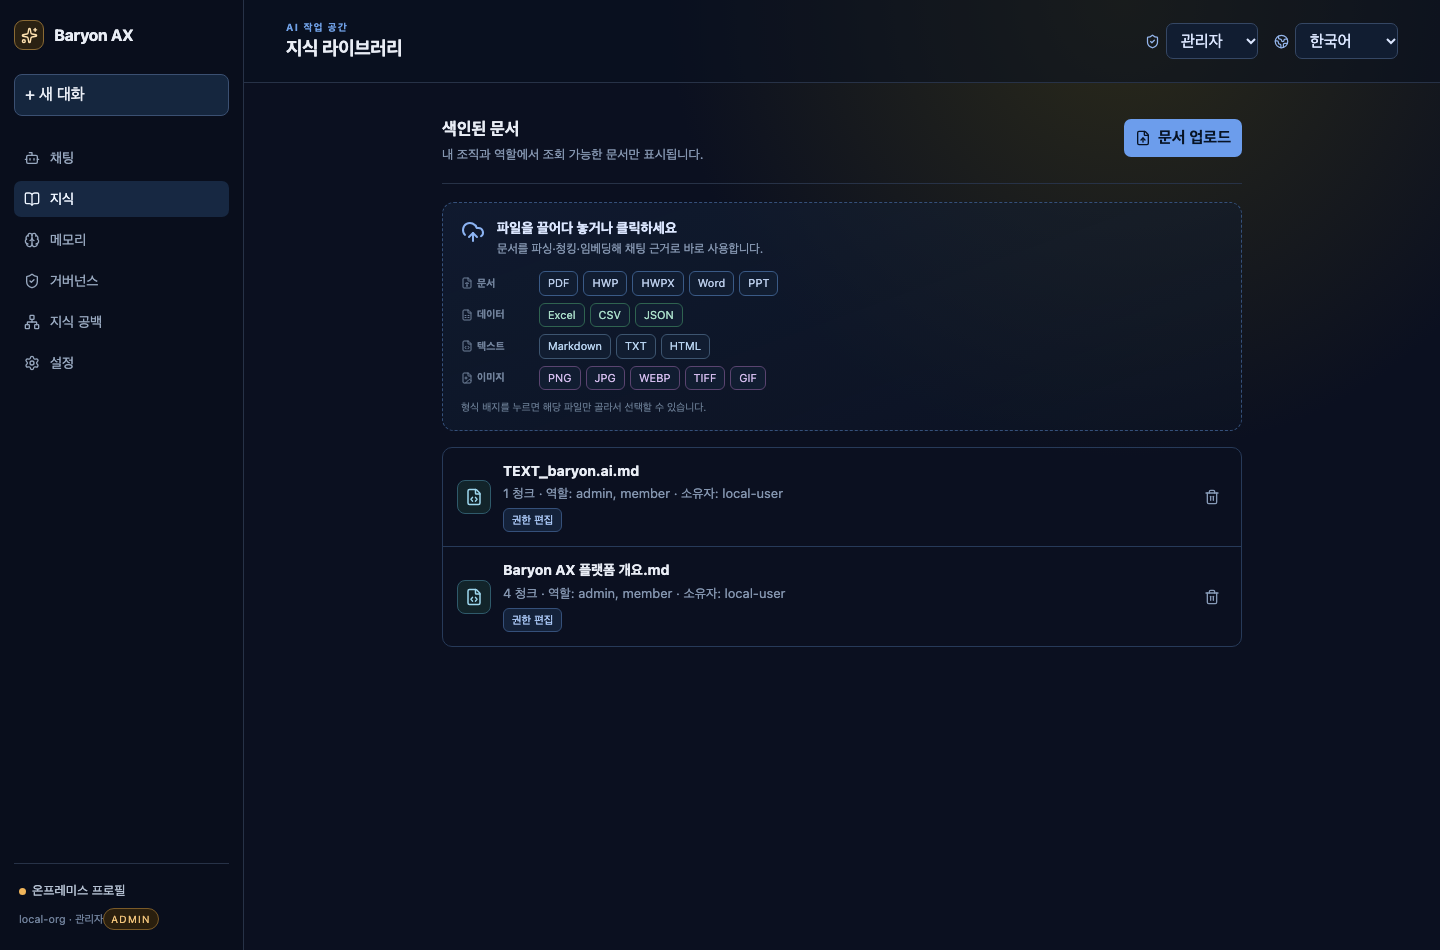
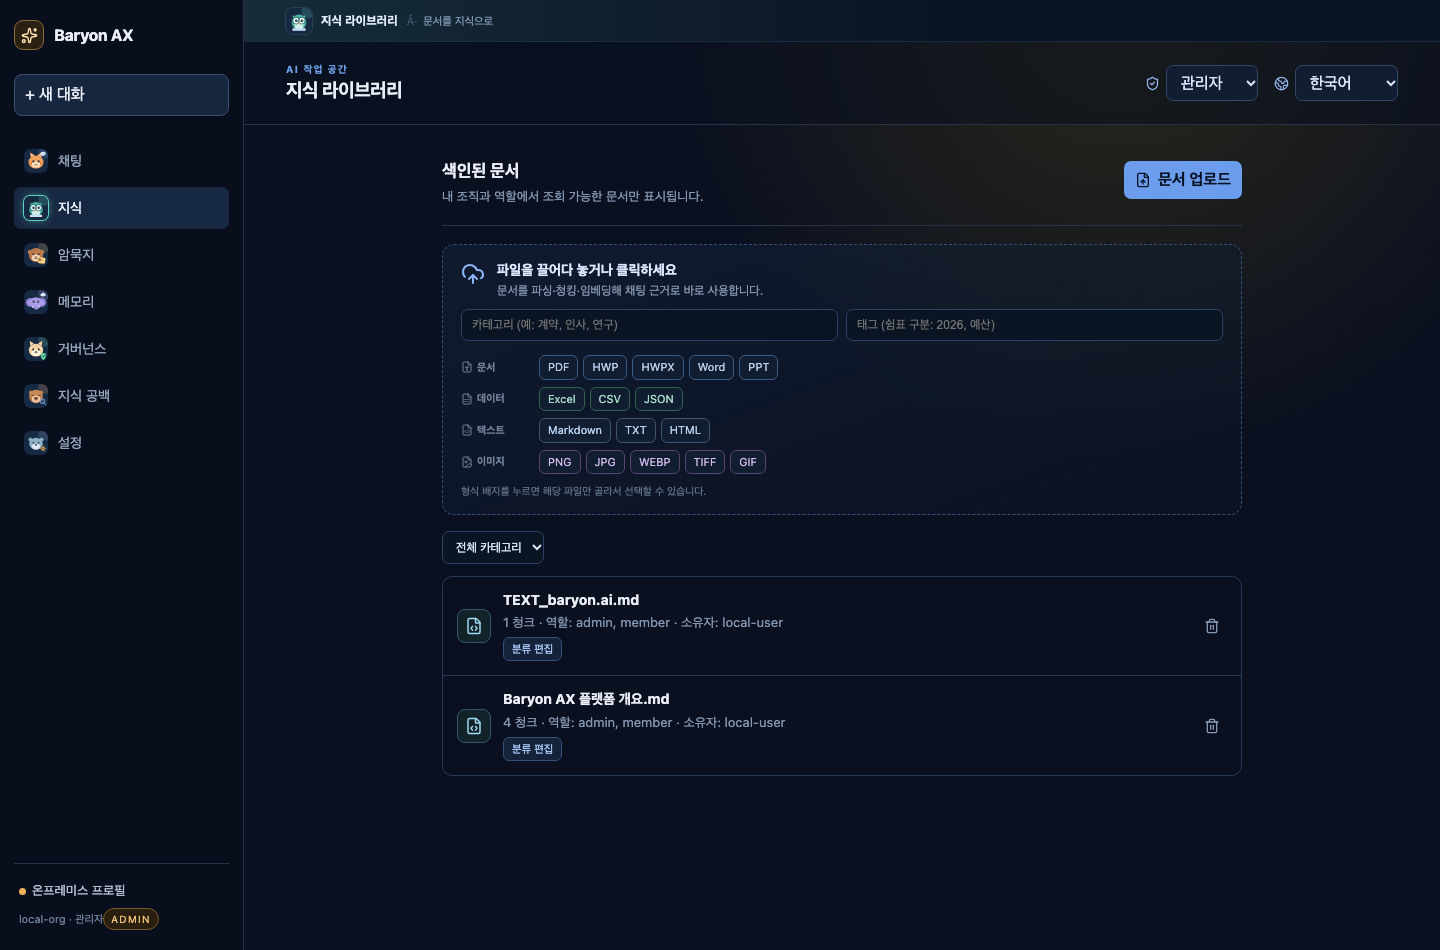
feat(web): add cute animal mascots and themed menu ribbon
- Add seven hand-drawn SVG animal mascots for chat, knowledge, tacit knowledge, memory, governance, gaps, and settings
- Use the mascots in the sidebar and active navigation state
- Add a thin per-menu ribbon with the mascot, title, tagline, and accent color
- Refresh the captured UI gallery with the new navigation

diff --git a/apps/web/src/App.tsx b/apps/web/src/App.tsx
@@ -11,6 +11,16 @@ type TraceStep = { step: string; status: string; ms: number; detail?: string };
 type ChatTrace = { trace_id?: string; steps: TraceStep[]; total_ms?: number | null; memory_count?: number; retrieval_count?: number };
 type ChatMessage = { role: "user" | "assistant"; content: string; citations?: Citation[]; trace?: ChatTrace };
 type Citation = { document_id: string; title: string; chunk: number };
+
+const MENU_MASCOTS: Record<View, { src: string; tagline: Record<Locale, string> }> = {
+  chat: { src: "/mascots/chat.svg", tagline: { ko: "근거로 답하는 대화", en: "Grounded conversations" } },
+  knowledge: { src: "/mascots/knowledge.svg", tagline: { ko: "문서를 지식으로", en: "Documents into knowledge" } },
+  tacit: { src: "/mascots/tacit.svg", tagline: { ko: "사람의 경험을 자산으로", en: "Experience into assets" } },
+  memory: { src: "/mascots/memory.svg", tagline: { ko: "잊지 않는 선호", en: "Preferences that persist" } },
+  governance: { src: "/mascots/governance.svg", tagline: { ko: "모든 변화를 기록", en: "Every change, recorded" } },
+  gaps: { src: "/mascots/gaps.svg", tagline: { ko: "부족한 지식을 찾아서", en: "Find what is missing" } },
+  settings: { src: "/mascots/settings.svg", tagline: { ko: "시스템을 한눈에", en: "The system at a glance" } },
+};
 type CitedChunk = { number: number; content: string; heading_path?: string | null; page?: number | null; kind?: string | null };
 type DocumentDetail = {
   id: string; title: string; owner_id: string; allowed_roles: string[]; created_at: string;
@@ -378,6 +388,8 @@ export default function App() {
   const [tacitError, setTacitError] = useState<"failed" | null>(null);
   const [tacitScope, setTacitScope] = useState<"mine" | "all">("mine");
   const tacitFileInput = useRef<HTMLInputElement>(null);
+  const tacitFormRef = useRef<HTMLElement>(null);
+  const tacitAnswerRef = useRef<HTMLTextAreaElement>(null);
   const fileInput = useRef<HTMLInputElement>(null);
 
   useEffect(() => { fetch(`${API}/v1/models`).then(response => response.json()).then(result => result.data?.[0] && setModel(result.data[0].id)).catch(() => undefined); }, []);
@@ -602,6 +614,15 @@ export default function App() {
       setTacitBusy(false);
     }
   }, [tacitBusy, role, loadTacit, t]);
+
+  useEffect(() => {
+    if (!tacitSelected) return;
+    // The answer form sits below the question grid; without this the click
+    // looks like a no-op because the form is off-screen.
+    tacitFormRef.current?.scrollIntoView({ behavior: "smooth", block: "center" });
+    const timer = window.setTimeout(() => tacitAnswerRef.current?.focus(), 250);
+    return () => window.clearTimeout(timer);
+  }, [tacitSelected]);
 
   useEffect(() => { if (view === "knowledge") void loadKnowledge(); }, [view, loadKnowledge]);
   useEffect(() => { if (view === "tacit") void loadTacit(); }, [view, loadTacit]);
@@ -902,18 +923,18 @@ export default function App() {
     return <dd>{value}{href && <a className="inline-link" href={href} target="_blank" rel="noreferrer" title={t.open}><ExternalLink size={12}/></a>}</dd>;
   }
 
-  return <main className={`shell ${role === "admin" ? "admin" : ""}`}>
+  return <main className={`shell theme-${view} ${role === "admin" ? "admin" : ""}`}>
     <aside className="sidebar">
       <div className="brand"><div className="brand-mark"><Sparkles size={17}/></div><span>Baryon AX</span></div>
       <button className="new-chat" onClick={() => { setView("chat"); setMessages([{ role: "assistant", content: t.welcome }]); }}>{t.newChat}</button>
       <nav>
-        <button className={view === "chat" ? "active" : ""} onClick={() => setView("chat")}><Bot size={16}/>{t.chat}</button>
-        <button className={view === "knowledge" ? "active" : ""} onClick={() => setView("knowledge")}><BookOpen size={16}/>{t.knowledge}</button>
-        <button className={view === "tacit" ? "active" : ""} onClick={() => setView("tacit")}><MessagesSquare size={16}/>{t.tacit}</button>
-        <button className={view === "memory" ? "active" : ""} onClick={() => setView("memory")}><Brain size={16}/>{t.memory}</button>
-        <button className={view === "governance" ? "active" : ""} onClick={() => setView("governance")}><ShieldCheck size={16}/>{t.governance}</button>
-        {role === "admin" && <button className={view === "gaps" ? "active" : ""} onClick={() => setView("gaps")}><Network size={16}/>{t.gaps}</button>}
-        {role === "admin" && <button className={view === "settings" ? "active" : ""} onClick={() => setView("settings")}><Settings size={16}/>{t.settings}</button>}
+        <button className={view === "chat" ? "active" : ""} onClick={() => setView("chat")}><img className="nav-mascot" src={MENU_MASCOTS.chat.src} alt=""/>{t.chat}</button>
+        <button className={view === "knowledge" ? "active" : ""} onClick={() => setView("knowledge")}><img className="nav-mascot" src={MENU_MASCOTS.knowledge.src} alt=""/>{t.knowledge}</button>
+        <button className={view === "tacit" ? "active" : ""} onClick={() => setView("tacit")}><img className="nav-mascot" src={MENU_MASCOTS.tacit.src} alt=""/>{t.tacit}</button>
+        <button className={view === "memory" ? "active" : ""} onClick={() => setView("memory")}><img className="nav-mascot" src={MENU_MASCOTS.memory.src} alt=""/>{t.memory}</button>
+        <button className={view === "governance" ? "active" : ""} onClick={() => setView("governance")}><img className="nav-mascot" src={MENU_MASCOTS.governance.src} alt=""/>{t.governance}</button>
+        {role === "admin" && <button className={view === "gaps" ? "active" : ""} onClick={() => setView("gaps")}><img className="nav-mascot" src={MENU_MASCOTS.gaps.src} alt=""/>{t.gaps}</button>}
+        {role === "admin" && <button className={view === "settings" ? "active" : ""} onClick={() => setView("settings")}><img className="nav-mascot" src={MENU_MASCOTS.settings.src} alt=""/>{t.settings}</button>}
       </nav>
       <div className={`environment ${role === "admin" ? "admin" : ""}`}>
         <span className="dot"/>{t.onPremises}<br/>
@@ -922,12 +943,17 @@ export default function App() {
       </div>
     </aside>
     <section className="workspace">
+      <div className="menu-ribbon">
+        <img className="menu-ribbon-mascot" src={MENU_MASCOTS[view].src} alt=""/>
+        <strong>{title()}</strong>
+        <span>{MENU_MASCOTS[view].tagline[locale]}</span>
+      </div>
       <header>
         <div><p className="eyebrow">{t.workspace}</p><h1>{title()}</h1></div>
         <div className="header-actions">
           <label className="locale-select role-select"><ShieldCheck size={15}/><span className="sr-only">{t.role}</span><select aria-label={t.role} value={role} onChange={event => setRole(event.target.value as Role)}><option value="member">{t.member}</option><option value="admin">{t.admin}</option></select></label>
           <label className="locale-select"><Globe2 size={15}/><span className="sr-only">{t.language}</span><select aria-label={t.language} value={locale} onChange={event => changeLocale(event.target.value as Locale)}><option value="ko">한국어</option><option value="en">English</option></select></label>
-          {view === "chat" && <><select value={model} onChange={event => setModel(event.target.value)}><option value={model}>{model}</option></select><label className="toggle"><input type="checkbox" checked={retrieval} onChange={event => setRetrieval(event.target.checked)}/><span/>RAG</label></>}
+          {view === "chat" && <><select aria-label={t.modelLabel} value={model} onChange={event => setModel(event.target.value)}><option value={model}>{model}</option></select><label className="toggle"><input type="checkbox" checked={retrieval} onChange={event => setRetrieval(event.target.checked)}/><span/>RAG</label></>}
         </div>
       </header>
       {view === "chat" && <>
@@ -1100,9 +1126,9 @@ export default function App() {
               <button className="primary" onClick={() => { setTacitSelected(question); setTacitAnswer(""); setTacitAttachments([]); setTacitMessage(""); }}><MessagesSquare size={15}/>{t.answerThis}</button>
             </article>)}
           </div>}
-          {tacitSelected && <section className="tacit-form">
+          {tacitSelected && <section className="tacit-form" id="tacit-form" ref={tacitFormRef}>
             <h3>{tacitSelected.question}</h3>
-            <textarea value={tacitAnswer} onChange={event => setTacitAnswer(event.target.value)} placeholder={t.tacitPlaceholder} rows={6}/>
+            <textarea ref={tacitAnswerRef} value={tacitAnswer} onChange={event => setTacitAnswer(event.target.value)} placeholder={t.tacitPlaceholder} rows={6}/>
             <div className="tacit-attachments">
               <input ref={tacitFileInput} type="file" multiple hidden onChange={event => void uploadTacitAttachment(event.target.files)}/>
               <button className="ghost" disabled={tacitBusy} onClick={() => tacitFileInput.current?.click()}><Paperclip size={15}/>{t.attach}</button>

diff --git a/apps/web/src/styles.css b/apps/web/src/styles.css
@@ -260,3 +260,21 @@ footer { width:min(860px, 100%); margin:0 auto; padding:16px 30px 24px; }.upload
 .document-chips { margin: 4px 0 6px; }
 .meta-editor { display: flex; gap: 8px; flex-wrap: wrap; margin: 8px 0; }
 .meta-editor input { flex: 1; min-width: 150px; background: #0b1422; border: 1px solid #2c4266; border-radius: 7px; color: #dbe7fa; padding: 7px 9px; font-size: 12px; }
+
+/* Menu mascots and themed ribbon */
+.shell.theme-chat { --menu-accent: #7fb0ff; }
+.shell.theme-knowledge { --menu-accent: #5fd0bd; }
+.shell.theme-tacit { --menu-accent: #f0b45a; }
+.shell.theme-memory { --menu-accent: #b49bf0; }
+.shell.theme-governance { --menu-accent: #7fe0b4; }
+.shell.theme-gaps { --menu-accent: #ff9a6a; }
+.shell.theme-settings { --menu-accent: #9fb6d8; }
+.nav-mascot { width: 24px; height: 24px; flex: 0 0 auto; border-radius: 6px; object-fit: cover; }
+nav button.active .nav-mascot { box-shadow: 0 0 0 1px var(--menu-accent), 0 0 10px -2px var(--menu-accent); }
+.menu-ribbon { position: relative; display: flex; align-items: center; gap: 9px; height: 42px; padding: 0 42px; overflow: hidden; background: #0b1424; border-bottom: 1px solid #1e2c42; }
+.menu-ribbon::before { content: ""; position: absolute; inset: 0; background: linear-gradient(90deg, var(--menu-accent), transparent 58%); opacity: .13; pointer-events: none; }
+.menu-ribbon-mascot { position: relative; width: 26px; height: 26px; border-radius: 7px; box-shadow: 0 0 0 1px rgba(255, 255, 255, .1); }
+.menu-ribbon strong { position: relative; color: #e2ecfb; font-size: 12px; font-weight: 650; letter-spacing: .01em; }
+.menu-ribbon span { position: relative; color: #8296b3; font-size: 11px; }
+.menu-ribbon span::before { content: "·"; margin-right: 6px; color: #41546f; }
+@media (max-width: 700px) { .menu-ribbon { padding: 0 20px; } .menu-ribbon span { display: none; } }
